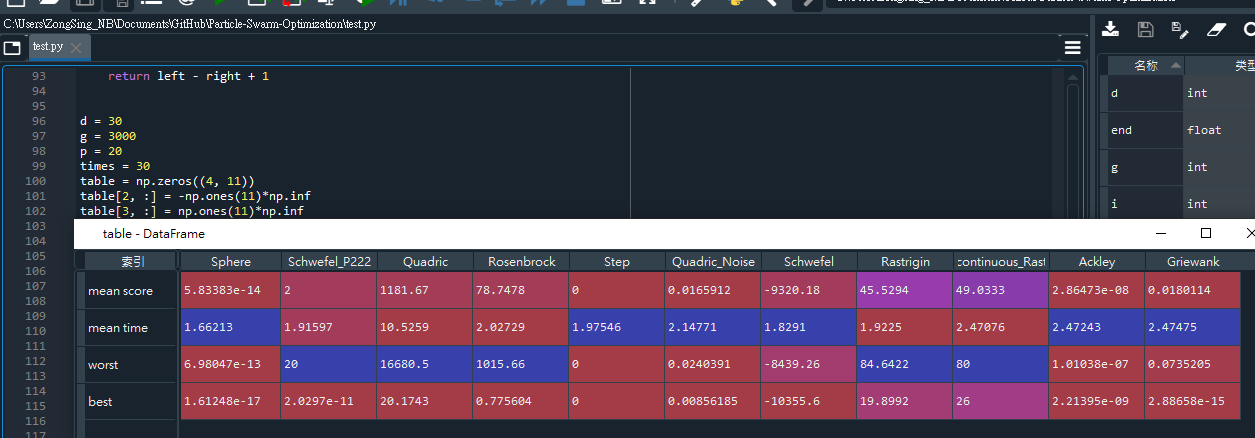
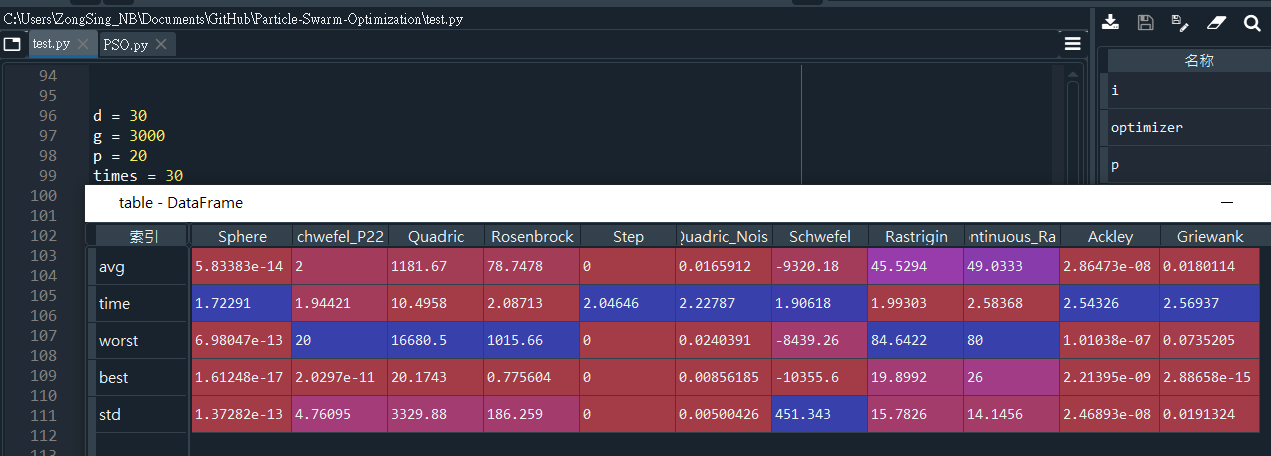
2020.08.20

diff --git a/test.py b/test.py
@@ -97,9 +97,10 @@ d = 30
 g = 3000
 p = 20
 times = 30
-table = np.zeros((4, 11))
+table = np.zeros((5, 11))
 table[2, :] = -np.ones(11)*np.inf
 table[3, :] = np.ones(11)*np.inf
+ALL = np.zeros((times, 11))
 for i in range(times):
     x_max = 100*np.ones(d)
     x_min = -100*np.ones(d)
@@ -112,6 +113,7 @@ for i in range(times):
     if optimizer.gBest_score<table[3, 0]: table[3, 0] = optimizer.gBest_score
     table[0, 0] += optimizer.gBest_score
     table[1, 0] += end - start 
+    ALL[i, 0] = optimizer.gBest_score
 
 
     x_max = 10*np.ones(d)
@@ -125,6 +127,7 @@ for i in range(times):
     if optimizer.gBest_score<table[3, 1]: table[3, 1] = optimizer.gBest_score
     table[0, 1] += optimizer.gBest_score
     table[1, 1] += end - start  
+    ALL[i, 1] = optimizer.gBest_score
 
     
     x_max = 100*np.ones(d)
@@ -138,6 +141,7 @@ for i in range(times):
     if optimizer.gBest_score<table[3, 2]: table[3, 2] = optimizer.gBest_score
     table[0, 2] += optimizer.gBest_score
     table[1, 2] += end - start
+    ALL[i, 2] = optimizer.gBest_score
   
  
     x_max = 10*np.ones(d)
@@ -150,7 +154,8 @@ for i in range(times):
     if optimizer.gBest_score>table[2, 3]: table[2, 3] = optimizer.gBest_score
     if optimizer.gBest_score<table[3, 3]: table[3, 3] = optimizer.gBest_score  
     table[0, 3] += optimizer.gBest_score
-    table[1, 3] += end - start   
+    table[1, 3] += end - start  
+    ALL[i, 3] = optimizer.gBest_score    
 
    
     x_max = 100*np.ones(d)
@@ -164,6 +169,7 @@ for i in range(times):
     if optimizer.gBest_score<table[3, 4]: table[3, 4] = optimizer.gBest_score  
     table[0, 4] += optimizer.gBest_score
     table[1, 4] += end - start
+    ALL[i, 4] = optimizer.gBest_score
   
   
     x_max = 1.28*np.ones(d)
@@ -177,6 +183,7 @@ for i in range(times):
     if optimizer.gBest_score<table[3, 5]: table[3, 5] = optimizer.gBest_score   
     table[0, 5] += optimizer.gBest_score
     table[1, 5] += end - start
+    ALL[i, 5] = optimizer.gBest_score
  
  
     x_max = 500*np.ones(d)
@@ -190,6 +197,7 @@ for i in range(times):
     if optimizer.gBest_score<table[3, 6]: table[3, 6] = optimizer.gBest_score   
     table[0, 6] += optimizer.gBest_score
     table[1, 6] += end - start
+    ALL[i, 6] = optimizer.gBest_score
   
 
     x_max = 5.12*np.ones(d)
@@ -203,6 +211,7 @@ for i in range(times):
     if optimizer.gBest_score<table[3, 7]: table[3, 7] = optimizer.gBest_score   
     table[0, 7] += optimizer.gBest_score
     table[1, 7] += end - start  
+    ALL[i, 7] = optimizer.gBest_score
 
 
     x_max = 5.12*np.ones(d)
@@ -216,6 +225,7 @@ for i in range(times):
     if optimizer.gBest_score<table[3, 8]: table[3, 8] = optimizer.gBest_score  
     table[0, 8] += optimizer.gBest_score
     table[1, 8] += end - start
+    ALL[i, 8] = optimizer.gBest_score
   
  
     x_max = 32*np.ones(d)
@@ -229,6 +239,7 @@ for i in range(times):
     if optimizer.gBest_score<table[3, 9]: table[3, 9] = optimizer.gBest_score  
     table[0, 9] += optimizer.gBest_score
     table[1, 9] += end - start
+    ALL[i, 9] = optimizer.gBest_score
    
  
     x_max = 600*np.ones(d)
@@ -242,12 +253,14 @@ for i in range(times):
     if optimizer.gBest_score<table[3, 10]: table[3, 10] = optimizer.gBest_score  
     table[0, 10] += optimizer.gBest_score
     table[1, 10] += end - start  
+    ALL[i, 10] = optimizer.gBest_score
     
     print(i+1)
     
     
 table[:2, :] = table[:2, :] / times
+table[4, :] = np.std(ALL, axis=0)
 table = pd.DataFrame(table)
 table.columns=['Sphere', 'Schwefel_P222', 'Quadric', 'Rosenbrock', 'Step', 'Quadric_Noise', 'Schwefel', 
                 'Rastrigin', 'Noncontinuous_Rastrigin', 'Ackley', 'Griewank']
-table.index = ['mean score', 'mean time', 'worst', 'best']
+table.index = ['avg', 'time', 'worst', 'best', 'std']
